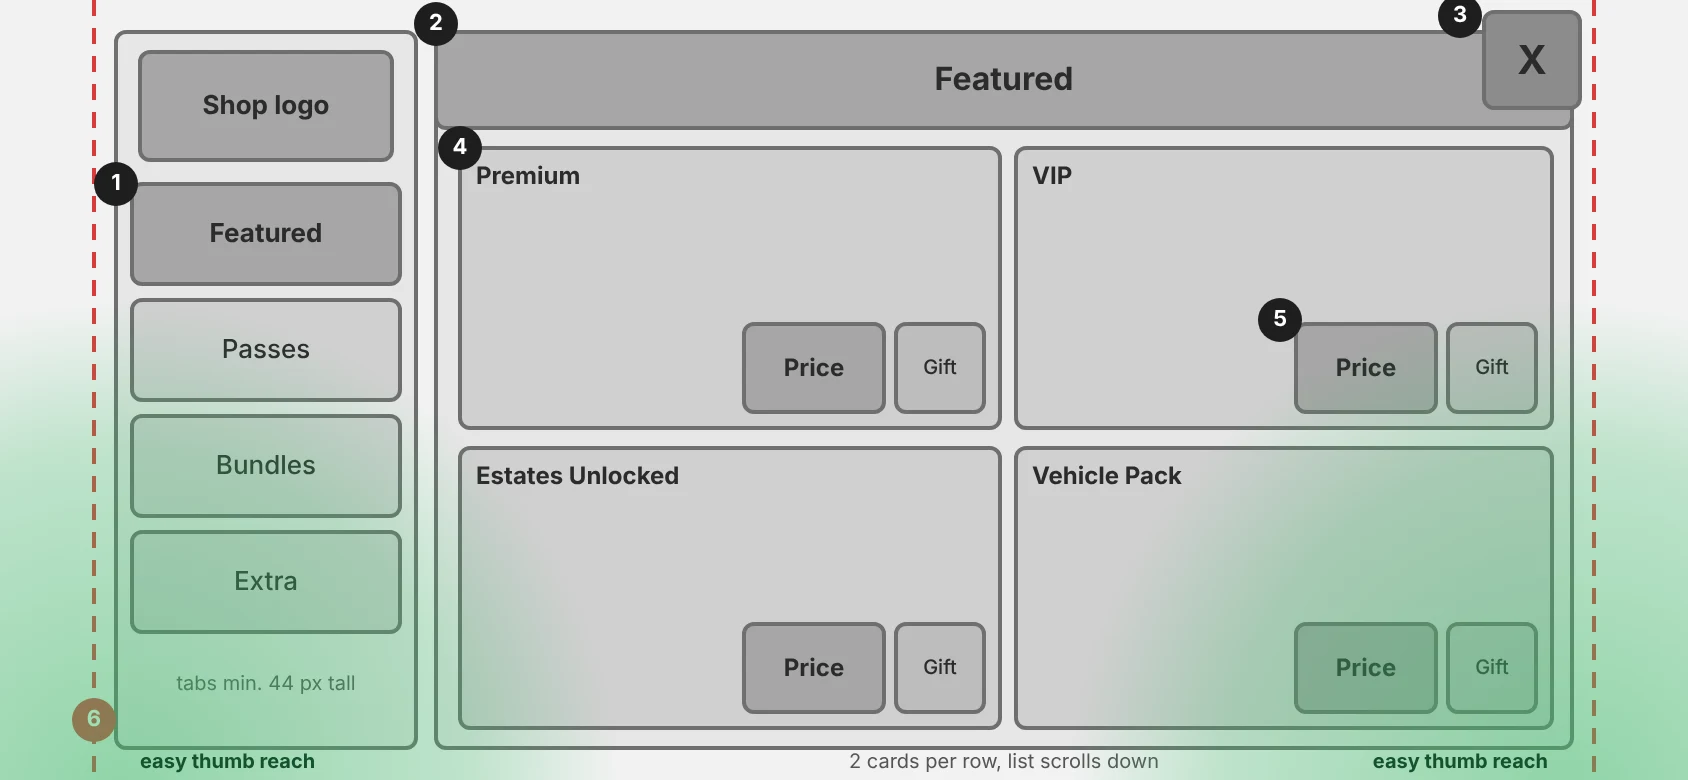
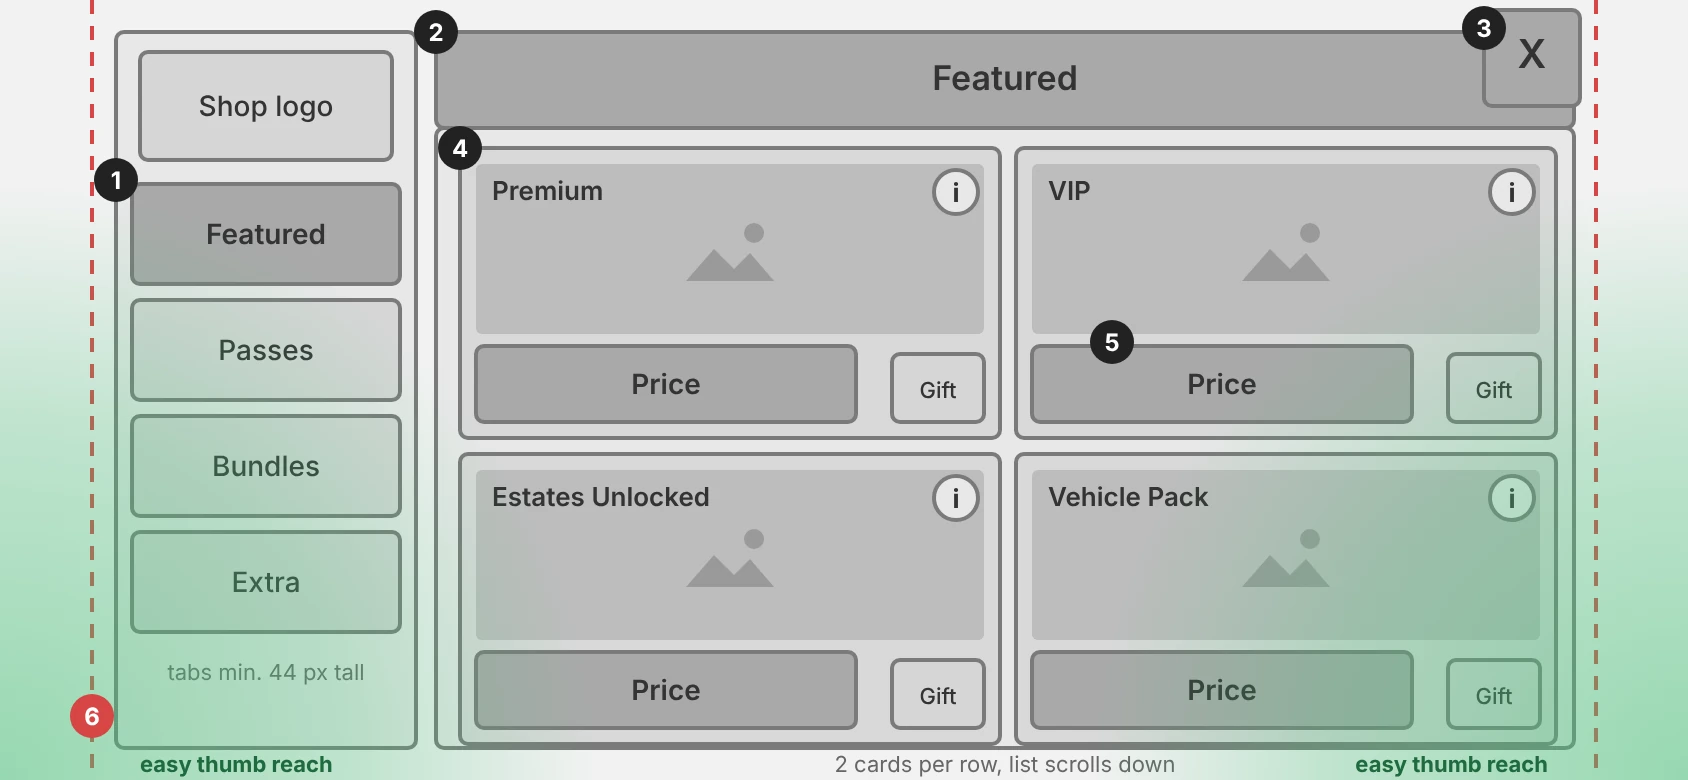
Brookhaven: phone shop finding and fix, phone shop wireframe with pictures
Claude-Session: https://claude.ai/code/session_01SgWwXxkp1r2RyepatKDJ1c

diff --git a/brookhaven.html b/brookhaven.html
@@ -77,7 +77,7 @@
 
     <section class="chapter">
       <h2>Layout</h2>
-      <p>This is Brookhaven's own layout. I studied why it works before redrawing it, and changed nothing about where things sit. Players already know where everything is, and a studio could swap in the new art without rebuilding the screens. The phone versions are my own proposal: bigger buttons, a list that scrolls and nothing important past the safe area.</p>
+      <p>This is Brookhaven's own layout. I studied why it works before redrawing it, and changed nothing about where things sit. Players already know where everything is, and a studio could swap in the new art without rebuilding the screens. The phone versions are my own proposal: bigger buttons, a list that scrolls and nothing important past the safe area. The phone shop also fixes a problem I found while playing, explained below.</p>
       <div class="why-cols">
         <div><h3>Welcome screen</h3><ol><li>The logo sits at the top, so it's the first thing players read.</li><li>Play is the biggest button, low and centred where thumbs reach.</li><li>Updates sit on the side: there for players who want them, never blocking Play.</li><li>The middle is left empty, so players see their avatar and the town.</li></ol></div>
         <div><h3>Shop</h3><ol><li>Tabs on the left keep every category one tap away.</li><li>The title bar always shows which tab is open.</li><li>The close button sits in the corner, away from the buy buttons.</li><li>The biggest offers get the biggest cards.</li><li>Every price is on the same green button, so players always know what they pay.</li></ol></div>
@@ -89,7 +89,7 @@
         </div><figcaption><b class="track track-intro">Intro</b></figcaption></figure>
         <figure class="fig"><div class="fig-stack">
           <button class="shot" type="button" data-full="images/brookhaven/wire-shop-pc.webp"><img src="images/brookhaven/wire-shop-pc.webp" width="1920" height="1080" alt="Grey-box layout of the shop on PC: tab column, title bar with close button, two large cards and three smaller cards, numbered 1 to 6" loading="lazy"><span class="shot-tag">PC</span></button>
-          <button class="shot" type="button" data-full="images/brookhaven/wire-shop-phone.webp"><img src="images/brookhaven/wire-shop-phone.webp" width="844" height="390" alt="Grey-box layout of the shop on a phone held sideways, with two cards per row and safe-area lines" loading="lazy"><span class="shot-tag">Phone</span></button>
+          <button class="shot" type="button" data-full="images/brookhaven/wire-shop-phone.webp"><img src="images/brookhaven/wire-shop-phone.webp" width="1688" height="780" alt="Grey-box layout of the shop on a phone held sideways: two cards per row, each with its picture, an i button, a big price button and a smaller gift button, with safe-area lines" loading="lazy"><span class="shot-tag">Phone</span></button>
         </div><figcaption><b class="track track-shop">Shop</b></figcaption></figure>
       </div>
           <h3 class="sub">Thumb reach on a phone</h3>
@@ -100,6 +100,17 @@
       </div>
     </section>
 
+    <section class="chapter">
+      <h2>One thing I'd improve</h2>
+      <p>When I played on my phone, the welcome screen looked good, close to the phone layout above. The shop did not. To fit the smaller screen, it drops its details: the back frame, the icons and the pictures of the passes and products are gone. Players only see each product's name in a square frame, its description, and the buy and gift buttons.</p>
+      <div class="why-cols">
+        <div><h3>Why it matters</h3><ul><li>Young players read pictures faster than words. Many are still learning to read, or play in another language.</li><li>The pictures are what make a pass exciting: a plane, a mansion, a car pack. Without them, every item looks the same.</li><li>Many Roblox players play on phones, so they get the simpler, less exciting shop.</li></ul></div>
+        <div><h3>My fix</h3><ul><li>Every card keeps its picture on phones too: two cards per row, each with its picture, name and price button.</li><li>The description moves behind the "i" button, one tap away, so it doesn't take space.</li><li>The price button stays big and the gift button smaller, apart from it, so young players don't tap the wrong one.</li><li>The tabs stay on the left, inside thumb reach.</li></ul></div>
+      </div>
+      <div class="figures">
+        <figure class="fig fig-wide"><button class="shot" type="button" data-full="images/brookhaven/wire-shop-phone.webp"><img src="images/brookhaven/wire-shop-phone.webp" width="1688" height="780" alt="My phone layout for the shop: two cards per row, each with space for its picture, name, price and gift buttons" loading="lazy"></button><figcaption><b class="track track-shop">My phone layout</b></figcaption></figure>
+      </div>
+    </section>
     <section class="chapter">
       <h2>Final UI</h2>
       <p>These are three separate style studies on Brookhaven's layout: two for the welcome screen and a third for the shop. I made them different on purpose, to show range. In a real update I would pick one style and apply it to every screen.</p>
@@ -118,7 +129,7 @@
 
     <section class="chapter">
       <h2>Result</h2>
-      <p>Three style studies on two screens, all on Brookhaven's own layout. Next, I would build them in Roblox Studio and test them with young players on phones: do they find Play and the price buttons as fast as today, and which style do they like best?</p>
+      <p>Three style studies on two screens, all on Brookhaven's own layout, and one fix for the shop on phones. Next, I would build them in Roblox Studio and test them with young players on phones: do they find Play and the price buttons as fast as today, do they open more items when the pictures are back, and which style do they like best?</p>
       <div class="actions">
         <a class="btn" href="index.html#work">See more work</a>
       </div>
